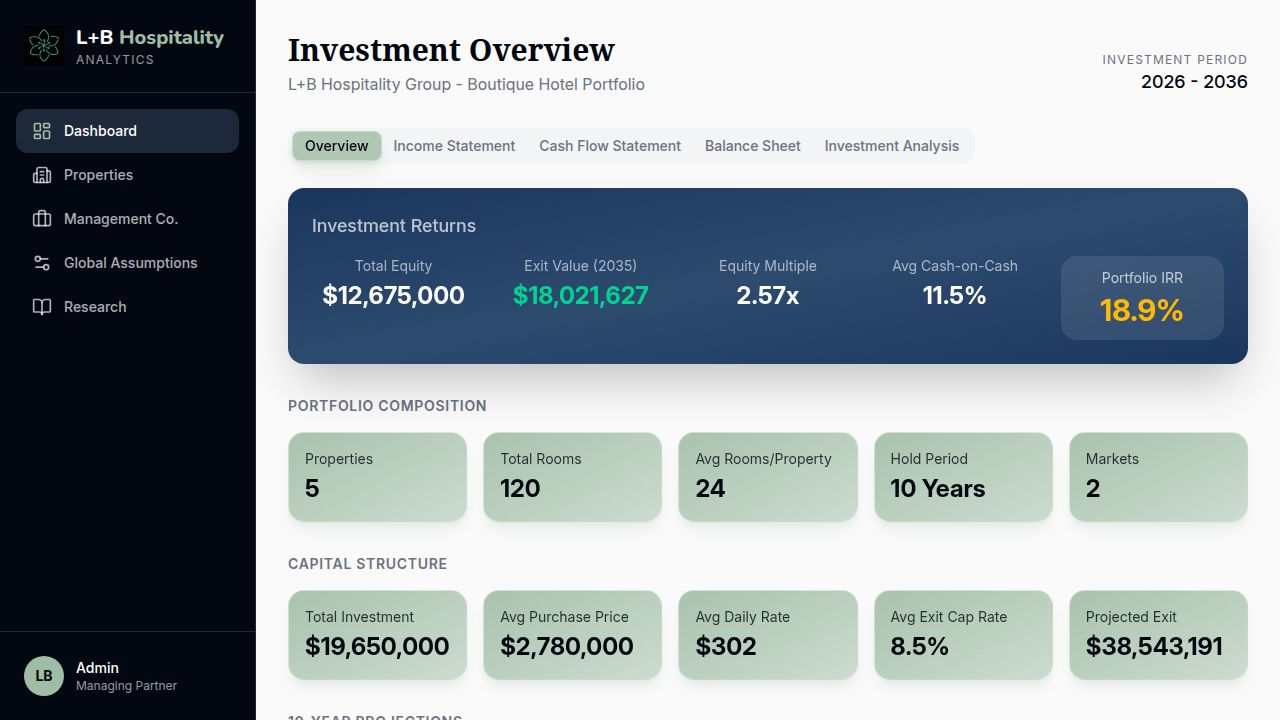
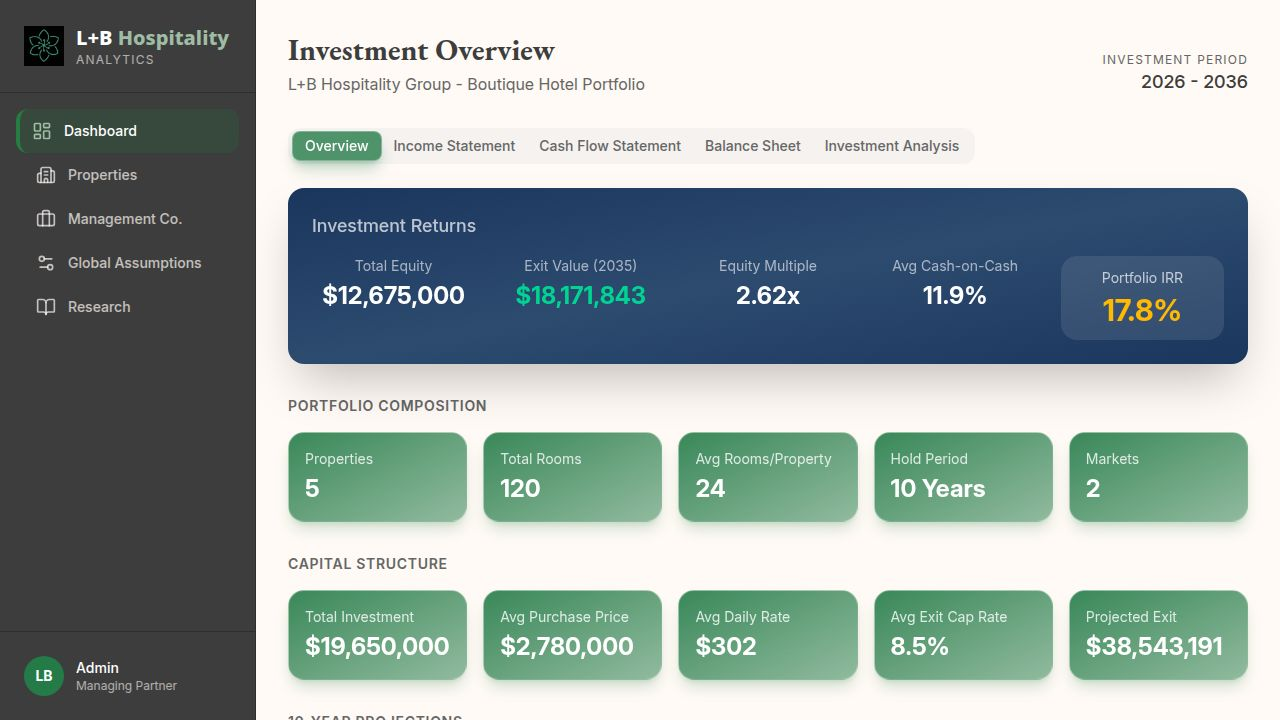
Improve sidebar navigation highlighting for better visibility
Update the sidebar active state styling in Layout.tsx to use a green background and left border, with adjusted icon color for improved contrast and user experience.

Replit-Commit-Author: Agent
Replit-Commit-Session-Id: d6580e1f-1d6b-49ef-9e3f-be5b7205c7a2
Replit-Commit-Checkpoint-Type: full_checkpoint
Replit-Commit-Event-Id: ceaa4016-2b5f-439c-a38a-fcfc0c4520c9
Replit-Commit-Screenshot-Url: https://storage.googleapis.com/screenshot-production-us-central1/e53ea481-4c36-4e2a-8bfc-80697f311b65/d6580e1f-1d6b-49ef-9e3f-be5b7205c7a2/Id16lTa
Replit-Helium-Checkpoint-Created: true

diff --git a/client/src/components/Layout.tsx b/client/src/components/Layout.tsx
@@ -50,10 +50,10 @@ export default function Layout({ children }: { children: React.ReactNode }) {
                 <div className={cn(
                   "flex items-center gap-3 px-4 py-3 text-sm font-medium transition-all duration-200 rounded-lg cursor-pointer",
                   isActive 
-                    ? "bg-sidebar-accent text-white" 
-                    : "text-sidebar-foreground/70 hover:bg-sidebar-accent/50 hover:text-white"
+                    ? "bg-[#257D41]/20 text-white border-l-4 border-[#257D41] ml-0 pl-3" 
+                    : "text-sidebar-foreground/70 hover:bg-sidebar-accent/50 hover:text-white border-l-4 border-transparent"
                 )}>
-                  <item.icon className={cn("w-5 h-5", isActive ? "text-sidebar-primary" : "")} />
+                  <item.icon className={cn("w-5 h-5", isActive ? "text-[#9FBCA4]" : "")} />
                   {item.label}
                 </div>
               </Link>
